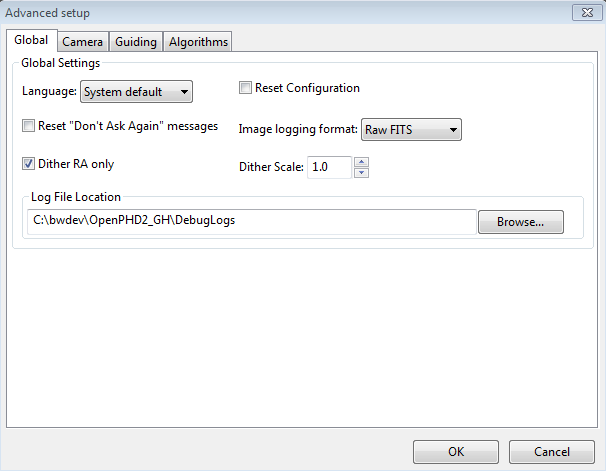
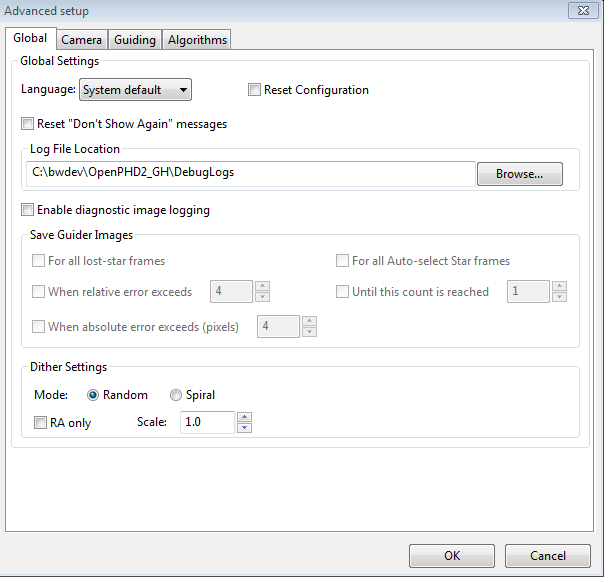
Update help content for revised image-logging features.

diff --git a/help/Advanced_settings.htm b/help/Advanced_settings.htm
@@ -24,7 +24,7 @@ at the bottom of the form. &nbsp;Clicking on 'Ok' means that changes
 made to any of the tab fields will be put into effect. &nbsp;Clicking
 on 'Cancel' discards any changes that were made.<br><br><span style="text-decoration: underline;"><a href="#Global_Tab">Global Tab</a></span><br><span style="text-decoration: underline;"><a href="#Camera_Tab">Camera Tab</a></span><br><span style="text-decoration: underline;"><a href="#Guiding_Tab">Guiding Tab</a><br><a href="#Algorithms_Tab">Algorithms Tab</a><br><a href="#Other_Devices_Tab">Other Devices Tab</a><br><a href="#Rotator_Tab"></a><br></span>
 <h3><a name="Global_Tab"></a>Global Tab</h3>
-<span style="font-size: 10pt; font-family: Arial;"></span><img style="width: 606px; height: 471px;" alt="" src="Advanced_global.png"><br><br>
+<span style="font-size: 10pt; font-family: Arial;"></span><img style="width: 604px; height: 577px;" alt="" src="Advanced_global.png"><br><br>
 The&nbsp;controls on the
 'Global' tab are well-described by their respective tool-tips, but they
 are summarized here for completeness:<br>
@@ -32,13 +32,58 @@ are summarized here for completeness:<br>
 <li>'<a name="Language"></a>Language' - determines the language
 used in the <span style="font-style: italic;">PHD2</span> user interface, subject to available localization.
 &nbsp;Changing this requires a program restart</li><li>'<a name="Reset_Configuration"></a>Reset Configuration' - restores all settings to their
-initial values as if <span style="font-style: italic;">PHD2</span> had been freshly installed</li><li>'<a name="Reset_Dont_Ask"></a>Reset Don't Ask Again messages' - restores the display of alert messages if you have previously chosen to not show them</li>
-<li>'<a name="Image_format"></a>Image logging format' - specifies the file format&nbsp;if
-star-image logging is enabled. If you are doing this for the purpose of documenting a problem, use Raw FITS</li>
-<li>'<a name="Dither_RA_only"></a>Dither
-RA only' - for imaging apps that use the <span style="font-style: italic;">PHD2</span> server interface,
-specifies that dithering should be done only on the RA axis</li>
-<li>'<a name="Dither_scale"></a>Dither scale' - an optional multiplier used to adjust the maximum-dither amount specified by the image application. See <a href="Tools.htm#Dithering_Ops">Dithering Operations</a>&nbsp;</li><li>'<a name="Log_File_Location"></a>Log File Location' - specifies a file directory where PHD2 guide and debug log files will be stored.</li></ul><br><h3><a name="Camera_Tab"></a>Camera Tab</h3>
+initial values as if <span style="font-style: italic;">PHD2</span> had been freshly installed</li><li>'<a name="Reset_Dont_Ask"></a>Reset Don't Show Again messages' - restores the display of alert messages if you have previously chosen to not show them</li><li>'<a name="Log_File_Location"></a>Log
+File Location' - specifies a file directory where PHD2 guide logs,
+debug logs, and any diagnostic image files will be stored.</li><li><a name="Dither_Settings"></a>Dither Settings</li><ul><li><a name="Dither_Random_Mode"></a>'Random
+mode' - tells PHD2 to use a random-number generator to compute both the
+size and the direction of the dither, subject to any constraints
+imposed by RA-only mode or by the Dec guiding mode being set to 'none'.</li><li><a name="Dither_Spiral_Mode"></a>'Spiral mode' - tells PHD2 to dither with fixed-size amounts in a clockwise spiral pattern.
+&nbsp;This can be a good choice when the imaging camera has
+significant fixed-pattern noise or the mount has a troublesome amount
+of Dec backlash.</li></ul>
+
+<ul><li>'<a name="Dither_RA_only"></a>Dither
+RA only' - tells PHD2 to dither&nbsp;only on the RA axis.</li></ul>
+<ul><li>'<a name="Dither_scale"></a>Dither scale' - an optional multiplier used to adjust the maximum-dither amount specified by the image application. See <a href="Tools.htm#Dithering_Ops">Dithering Operations</a>&nbsp;</li></ul><li><a name="Image_Logging"></a>'Enable
+diagnostic image logging' - used primarily for product support and
+diagnosis of problems dealing with PHD2 star-recognition and
+measurement. &nbsp;However, it can be used to examine and analyze guide
+frame images for any other purpose as well. &nbsp;Guide frame images
+are captured and logged in a FITs format subject to the filter/trigger
+controls in the group-box. &nbsp;Images are saved in sub-folders of the
+PHD2 logging directory with the date and time encoded as part of the
+sub-folder name. &nbsp;Individual guide frames are saved with filenames
+that indicate the time the image was captured and the reason the frame
+was saved. &nbsp;Since the guide frames are saved in a FITs format, the
+header will include other useful information such as exposure time.
+&nbsp;Because the logging function is primarily used for
+trouble-shooting, the image sub-folders are automatically removed after
+30 days. &nbsp;If you wish to keep the images for your own purposes,
+you should either rename the sub-folders or copy/move them to a
+different directory. &nbsp;When logging is triggered by one of the
+"events" - e.g. lost star or large errors - a group of&nbsp;images
+(an <span style="font-style: italic;">image set)</span> will be saved, centered in time on the image that
+triggered the event. This provides a record &nbsp;of guider
+images that will show what the guide star and guide frame looked like
+both before and after the unusual condition occurred. &nbsp;The various
+triggering and filtering controls are described below and are also shown in the tooltips for the controls:</li><ul><li>'All
+lost star frames' - logs the image set for any lost-star events,
+regardless of the reason for the lost star (low SNR, mass-change, etc.)</li><li>'All
+auto-select star frames' - logs the image set for any frames used for
+auto-selection of the star, regardless of outcome. &nbsp;Note that any
+failed attempts to auto-select a star will always result in a logged
+image, regardless of&nbsp;choices made in the user interface.</li><li>'When
+relative error exceeds' - logs the image set when the star deflection
+on the current frame exceeds&nbsp;the running-average error by the
+factor chosen in the adjacent spin control. &nbsp;For example, if the
+average (RMS) error is 0.5 pixels and the current frame's error is 1.5
+pixels, the relative error is 3.</li><li>'When
+absolute error exceeds' - logs the image set when&nbsp;the star
+deflection exceeds the number of pixels specified in the adjacent spin
+control.</li><li>'Until
+this count is reached' &nbsp;- logs images until the count matches the
+value of the adjacent spin control. &nbsp;The counter is reset to zero
+when the limit is reached.</li></ul></ul><h3><a name="Camera_Tab"></a>Camera Tab</h3>
 <span style="font-size: 10pt; font-family: Arial;"></span><img style="width: 605px; height: 480px;" alt="" src="Advanced_camera.png"><br>
 <br>
 The controls on the 'Camera' tab are used as follows: <br>
